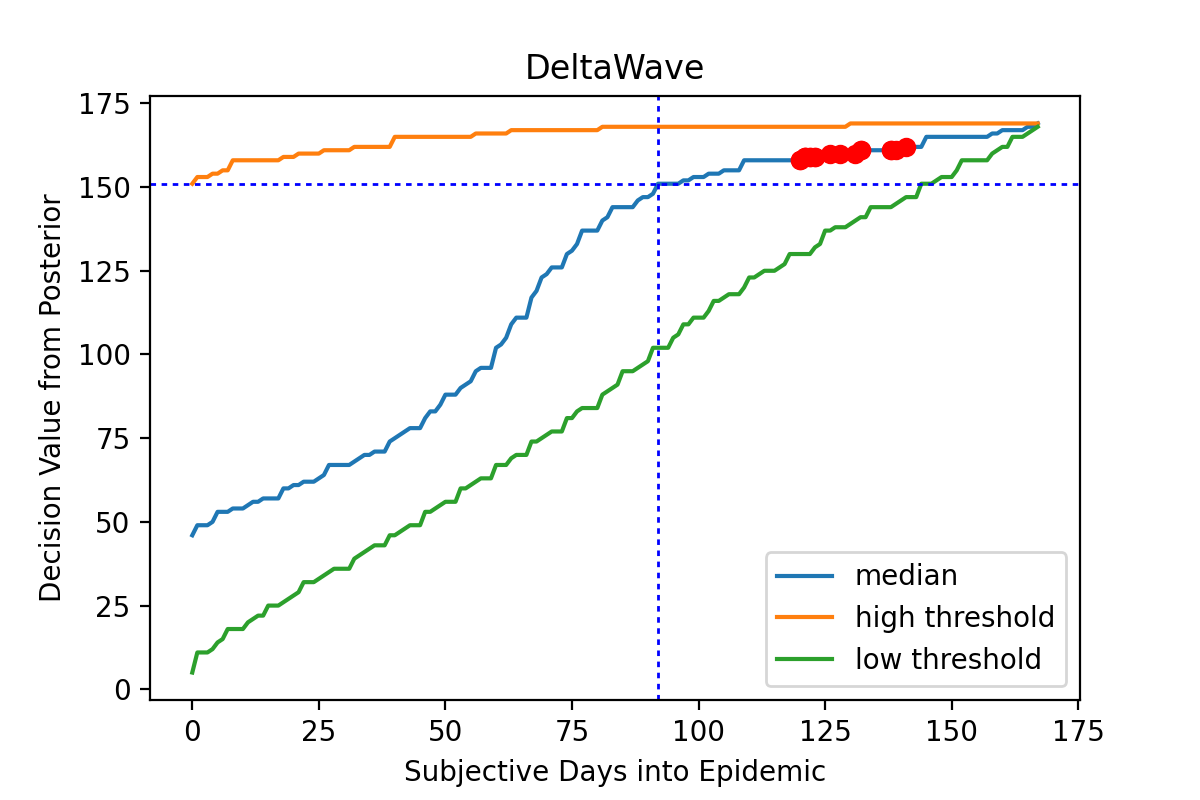
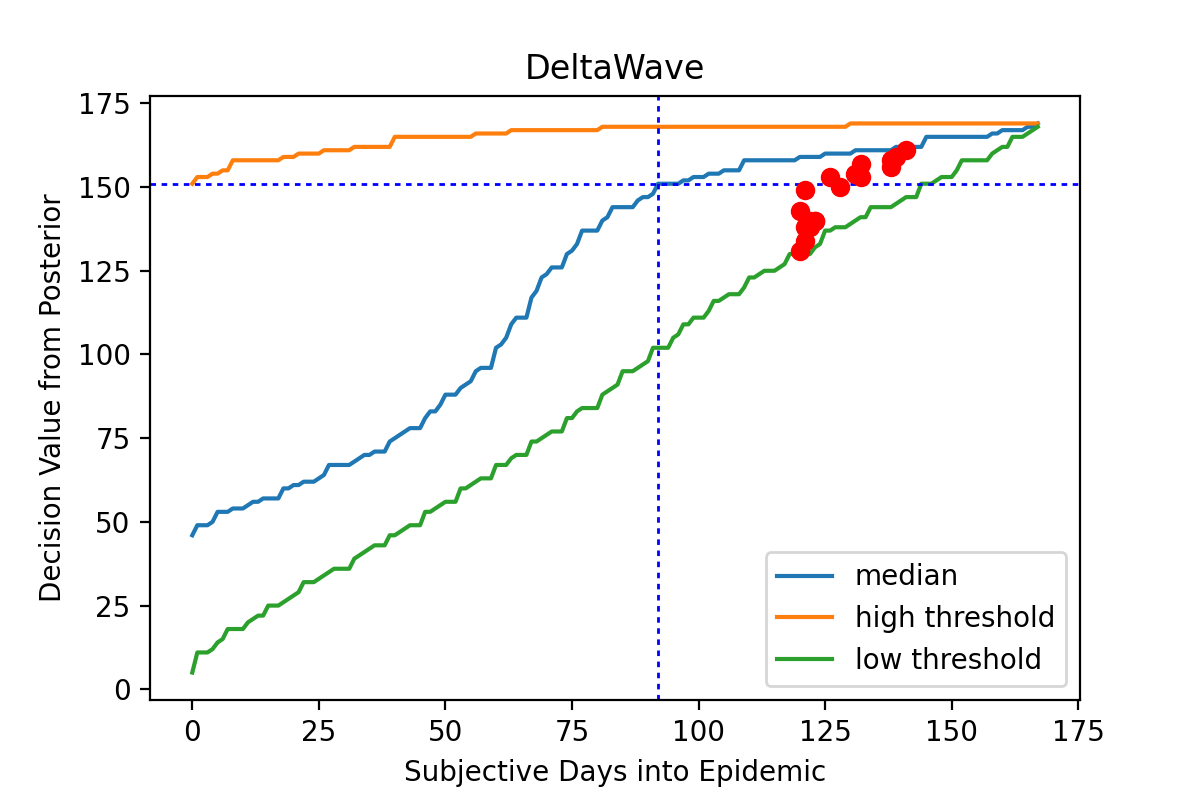
std

Changed region(s): [[0.6475, 0.1562, 0.7708, 0.3438]]

diff --git a/sandbox/.ipynb_checkpoints/file2-checkpoint.py b/sandbox/.ipynb_checkpoints/file2-checkpoint.py
@@ -137,7 +137,7 @@ dist_prior_event_probs = S_ts/S_ts.sum()
 N = S_ts.sum()
 #NEED TO DROP ZEROs
 dist_prior_event_probs = dist_prior_event_probs.loc[dist_prior_event_probs>0]
-
+plt.plot(dist_prior_event_probs)
 #RUN OVER RANGE OF t
 catch = ([])
 catch_2 = ([])
@@ -176,11 +176,19 @@ plt.xlabel('Subjective Days into Epidemic')
 plt.ylabel('Decision Value from Posterior')
 plt.axvline(x=median_of_dist(dist_prior_event_probs), c='b',dashes=(2,2,2,2),linewidth=1)
 plt.axhline(y=catch[median_of_dist(dist_prior_event_probs)], c='b',dashes=(2,2,2,2),linewidth=1)
+#for i in range(0,len(catch_4)): 
+#    plt.plot(catch_4[i][0],catch_4[i][1],'ro')
 for i in range(0,len(catch_4)): 
-    plt.plot(catch_4[i][0],catch_4[i][1],'ro') 
+    plt.plot(catch_4[i][0],df_112076.decision_output_int[i],'ro')
+
 plt.savefig('DeltaWave_Decision_Predictions.png',dpi=200)
+#JUST A TEST THAT CPATURING THE HUMAN OUTPUT
+for i in range(0,len(catch_4)):
+    print(df_112076.decision_output_int[i])
 
 
+    
+    
 
 '''SCRAP AND POSSIBLE HELPERS'''
 #FOR INDIVIDUAL USE

diff --git a/sandbox/file2.py b/sandbox/file2.py
@@ -137,7 +137,7 @@ dist_prior_event_probs = S_ts/S_ts.sum()
 N = S_ts.sum()
 #NEED TO DROP ZEROs
 dist_prior_event_probs = dist_prior_event_probs.loc[dist_prior_event_probs>0]
-
+plt.plot(dist_prior_event_probs)
 #RUN OVER RANGE OF t
 catch = ([])
 catch_2 = ([])
@@ -176,11 +176,19 @@ plt.xlabel('Subjective Days into Epidemic')
 plt.ylabel('Decision Value from Posterior')
 plt.axvline(x=median_of_dist(dist_prior_event_probs), c='b',dashes=(2,2,2,2),linewidth=1)
 plt.axhline(y=catch[median_of_dist(dist_prior_event_probs)], c='b',dashes=(2,2,2,2),linewidth=1)
+#for i in range(0,len(catch_4)): 
+#    plt.plot(catch_4[i][0],catch_4[i][1],'ro')
 for i in range(0,len(catch_4)): 
-    plt.plot(catch_4[i][0],catch_4[i][1],'ro') 
+    plt.plot(catch_4[i][0],df_112076.decision_output_int[i],'ro')
+
 plt.savefig('DeltaWave_Decision_Predictions.png',dpi=200)
+#JUST A TEST THAT CPATURING THE HUMAN OUTPUT
+for i in range(0,len(catch_4)):
+    print(df_112076.decision_output_int[i])
 
 
+    
+    
 
 '''SCRAP AND POSSIBLE HELPERS'''
 #FOR INDIVIDUAL USE
